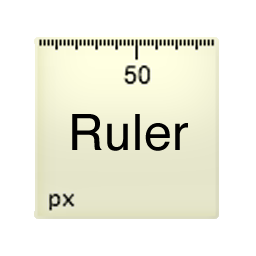
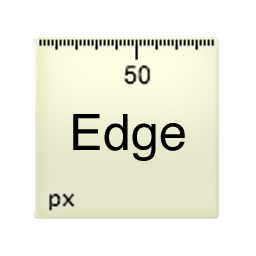
name change to Edge, bump to 0.6

Changed region(s): [[0.2812, 0.4375, 0.75, 0.625]]

diff --git a/README.md b/README.md
@@ -1,7 +1,7 @@
-Ruler
-=========
+Edge (Ruler for Chrome)
+=======================
 
-Ruler is a simple on-screen ruler written using the Chrome packaged app platform. 
+Edge is a simple on-screen ruler written using the Chrome packaged app platform. 
 
 
 Installation
@@ -11,10 +11,10 @@ Most users will want to install [from the Chrome Web Store][webstore-dl].
 
 ### Installing from the source
 
-* Download [this zip of Ruler][ruler-dl]
+* Download [this zip of Edge][edge-dl]
 * Unzip Ruler-master.zip
 * On chrome://extensions click the "Enable Developer Mode" checkbox
-* Click the "Load unpacked extension..." button and select the app subdirectory of Ruler
+* Click the "Load unpacked extension..." button and select the app subdirectory of Edge
 * Run the app from the new tab page
 
 Technologies
@@ -29,7 +29,7 @@ Authors
 * Andrew Stromme &lt;andrew.stromme@gmail.com&gt;
 
 
-[ruler-dl]: https://github.com/astromme/Ruler/archive/master.zip
-[webstore-dl]: https://chrome.google.com/webstore/detail/ruler/njlkegdphefeellhaongiopcfgcinikh?hl=en&gl=US
+[edge-dl]: https://github.com/astromme/Ruler/archive/master.zip
+[webstore-dl]: https://chrome.google.com/webstore/detail/njlkegdphefeellhaongiopcfgcinikh?hl=en&gl=US
 [chrome-app-platform]: http://developer.chrome.com/stable/apps/about_apps.html
 [angularjs]: http://angularjs.org/

diff --git a/CHANGELOG.md b/CHANGELOG.md
@@ -1,5 +1,10 @@
-Ruler Changelog
-===============
+Edge Changelog
+==============
+
+v0.6
+----
+
+* Name change to Edge
 
 v0.5.2
 ------
